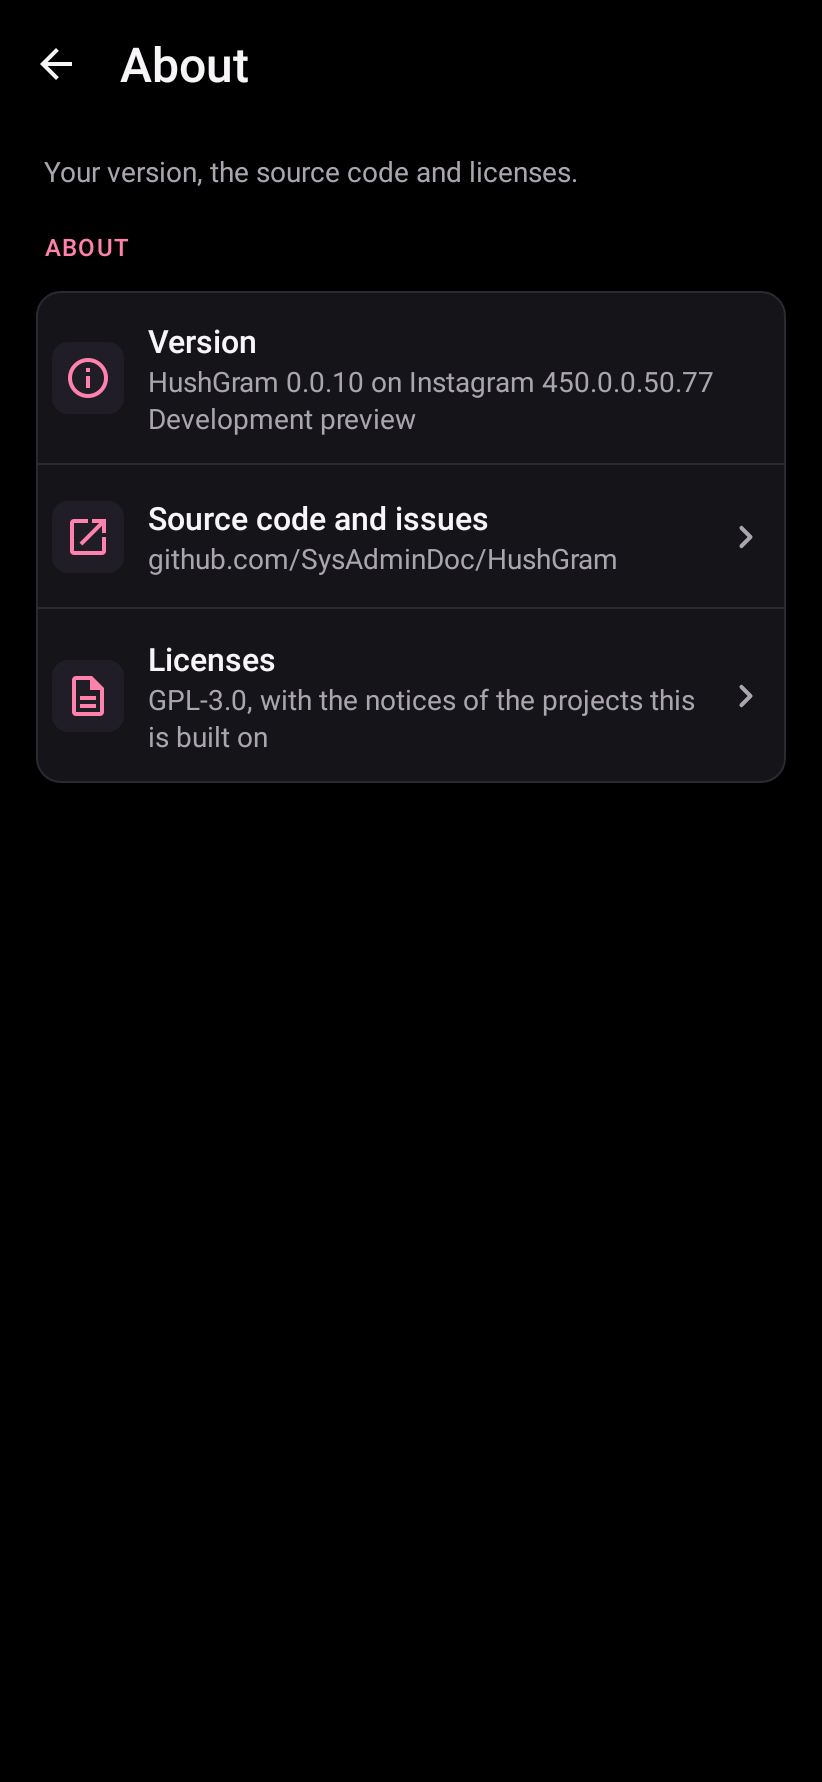
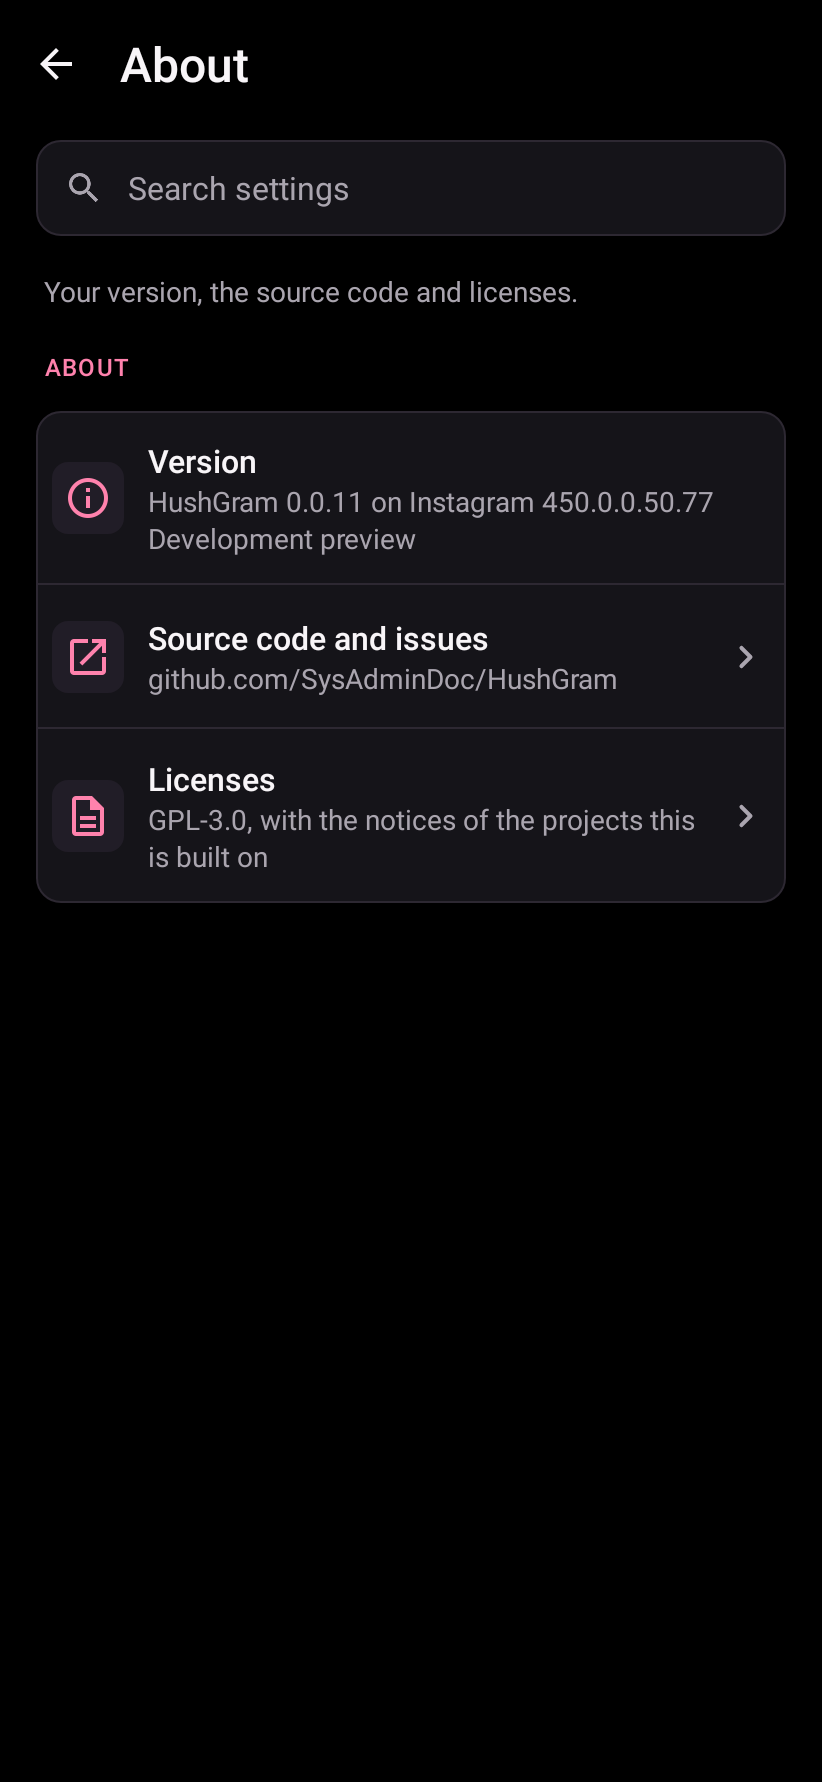
style(ui): refresh settings previews for version 0.0.11

Changed region(s): [[0.0304, 0.0617, 0.9732, 0.5247], [0.882, 0.3704, 0.9124, 0.4012], [0.7908, 0.2778, 0.8212, 0.3086]]

diff --git a/README.md b/README.md
@@ -1,7 +1,7 @@
 ![HushGram. Keep the moments. Cut the noise.](assets/readme-hero.png)
 
 <p align="center">
-  <img src="https://img.shields.io/badge/version-0.0.10-E1306C" alt="Version 0.0.10">
+  <img src="https://img.shields.io/badge/version-0.0.11-E1306C" alt="Version 0.0.11">
   <a href="LICENSE"><img src="https://img.shields.io/badge/license-GPL--3.0-blue" alt="License GPL-3.0"></a>
   <img src="https://img.shields.io/badge/platform-Android%209%2B-3DDC84" alt="Platform Android 9+">
   <img src="https://img.shields.io/badge/Instagram-450.0.0.50.77-E1306C" alt="Instagram 450.0.0.50.77">
@@ -26,7 +26,7 @@ Most switches start off, so a freshly patched Instagram looks like Instagram unt
 
 The latest release is [v0.0.9](https://github.com/SysAdminDoc/HushGram/releases/tag/v0.0.9), with 101 patches. Add it to Morphe Manager with [this link](https://morphe.software/add-source?github=SysAdminDoc%2FHushGram).
 
-Main is preparing v0.0.10, with a new settings design. It hasn't been released yet. What changed in each version is in the [changelog](CHANGELOG.md).
+Main is preparing v0.0.11, with clearer settings navigation and improved dialogs. It hasn't been released yet. What changed in each version is in the [changelog](CHANGELOG.md).
 
 This project has no connection to Meta or to the Morphe project. Neither endorses it, and neither wrote it.
 
@@ -190,7 +190,11 @@ Inside Instagram, long-press the Instagram logo at the top of your feed. A tap s
   <img src="assets/settings-about.png" alt="HushGram About page with version and licenses" width="270">
 </p>
 
-The settings open as a list of categories: Ads and privacy, Feed, Meta AI, Explore, Messages, Reels, Stories, Playback, Sharing, Comments, Profiles, Layout, Tab bar, Notifications, Storage, Downloads, Battery, Updates and Developer. **Search settings** finds a control by its label in your phone's language or by its English patch name. The rows you see depend on the patches you picked. The screenshots are from the v0.0.10 development build.
+The settings open as a list of categories: Ads and privacy, Feed, Meta AI, Explore, Messages, Reels, Stories, Playback, Sharing, Comments, Profiles, Layout, Tab bar, Notifications, Storage, Downloads, Battery, Updates and Developer. **Search settings** finds a control by its label in your phone's language or by its English patch name. The rows you see depend on the patches you picked. The screenshots are from the v0.0.11 development build.
+
+Search stays available inside each category. Rotation keeps your category and position, and a change that needs a restart shows the action on that page. Place and sharing-domain editors keep an invalid entry open so you can correct it.
+
+PIN forms keep their labels visible and scroll above the keyboard. Next moves to confirmation, and Done submits. Incomplete entries don't spend an attempt. The picture viewer keeps Close and Save below the preview, clear of system bars. Save becomes available after loading.
 
 A few rows to know about:
 

diff --git a/CHANGELOG.md b/CHANGELOG.md
@@ -4,7 +4,7 @@ Every HushGram release, newest first.
 
 ## Unreleased
 
-### HushGram v0.0.10
+### HushGram v0.0.11
 
 #### Features
 
@@ -40,15 +40,15 @@ Every HushGram release, newest first.
 
 #### Improvements
 
-* **Instagram - HushGram settings:** Search stays available inside categories, pending restart actions appear on the page you changed, and rotation preserves your category and position without retaining search text. Empty search results explain why an install may not include a control.
-
 * **Instagram - HushGram settings:** Switches use the same compact corners as the rest of settings, with their native on, off and disabled behavior preserved.
 
-* **Instagram - View profile picture:** Close and Save have their own space below the preview, clear of system bars and edge gestures. Save stays unavailable while the picture loads, with a visible message and a spoken label. Reel search actions now share the same focus and press feedback.
+* **Instagram - HushGram settings:** Focus, selection and pressed feedback now follow the same style across settings cards, dialogs and runtime actions. Input borders are easier to distinguish before typing, and recovery and save-cancellation actions keep visible interaction feedback.
+
+* **Instagram - HushGram settings:** Search stays available inside categories, pending restart actions appear on the page you changed, and rotation preserves your category and position without retaining search text. Empty search results explain why an install may not include a control.
 
 * **Instagram - Lock your messages:** PIN forms scroll and keep their labels visible. The keyboard can move to confirmation or submit, incomplete entries don't spend an attempt, and a retry countdown enables entry when the wait ends. Closing a form clears its digits.
 
-* **Instagram - HushGram settings:** Focus, selection and pressed feedback now follow the same style across settings cards, dialogs and runtime actions. Input borders are easier to distinguish before typing, and recovery and save-cancellation actions keep visible interaction feedback.
+* **Instagram - View profile picture:** Close and Save have their own space below the preview, clear of system bars and edge gestures. Save stays unavailable while the picture loads, with a visible message and a spoken label. Reel search actions now share the same focus and press feedback.
 
 * **Instagram - HushGram settings:** Settings now use clearer category descriptions, a rounded search field and pink icon tiles. Dialogs share the same styling, and controls stay readable at larger text sizes.
 
